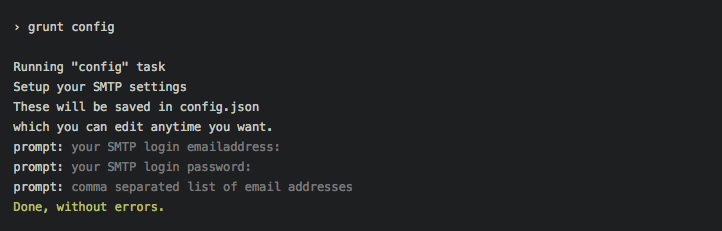
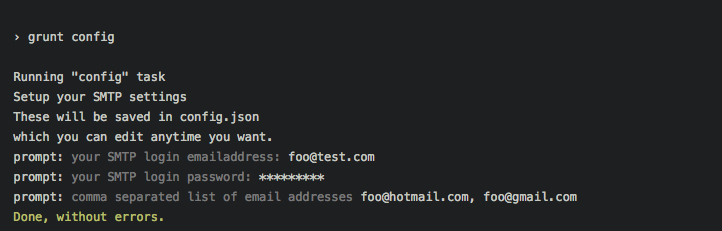
updated readme

Changed region(s): [[0.0, 0.2424, 0.8227, 0.9697], [0.0, 0.0909, 0.1828, 0.1818]]

diff --git a/README.md b/README.md
@@ -23,15 +23,12 @@ Open up your text editor and start editing files in `src/`. This is where all ja
 
 ---
 #### Clean Jade templates (with some smart mixins)
-Nest tables the smart way. Write:
+Nest those pretty tables the smart and readable way using jade mixins. This will make your emailtemplate creating life a lot easier.
 
 ![](https://raw.github.com/EightMedia/eightmailboilerplate/master/github/jade.jpg)
 
-This will make your emailtemplate creating life a lot easier.
-
 ---
 
----
 #### Automatic css inlining and SASS
 Write your css in an external file and get all those pretty styles automatically inlined. Stylesheets will also be automatically included in the head of the file so your media queries will work nicely.
 
@@ -71,9 +68,7 @@ You can test your mailing from the command line. Before you can send a test mail
 
 ![](https://raw.github.com/EightMedia/eightmailboilerplate/master/github/config.jpg)
 
-From now on you can send the testmail with `grunt mail`. 
-
-![](https://raw.github.com/EightMedia/eightmailboilerplate/master/github/mail.jpg)
+This will create config.json which you can edit at any time you want.
 
 ```json
 {
@@ -97,6 +92,10 @@ From now on you can send the testmail with `grunt mail`.
     ]
 }
 ```
+
+From now on you can send testmails with `grunt mail`. 
+
+![](https://raw.github.com/EightMedia/eightmailboilerplate/master/github/mail.jpg)
 
 
 ---
